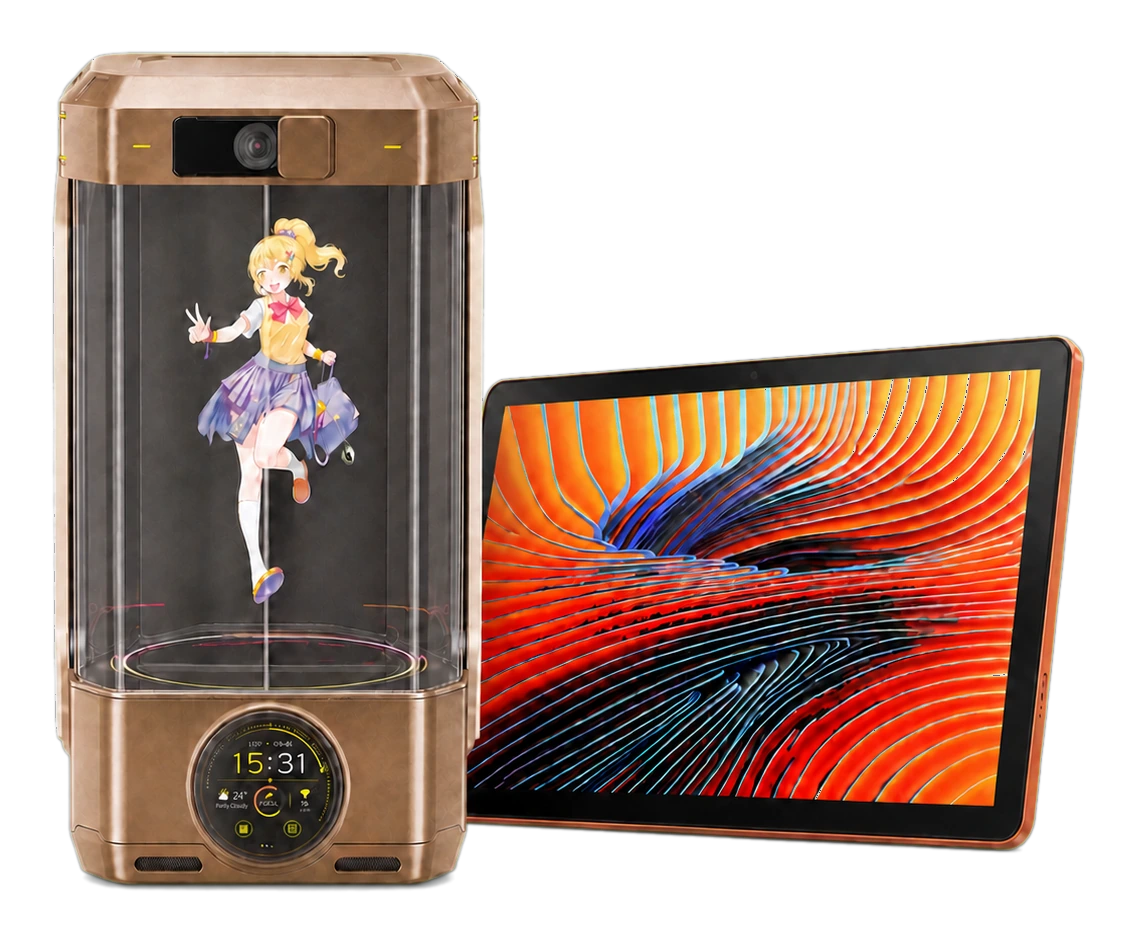
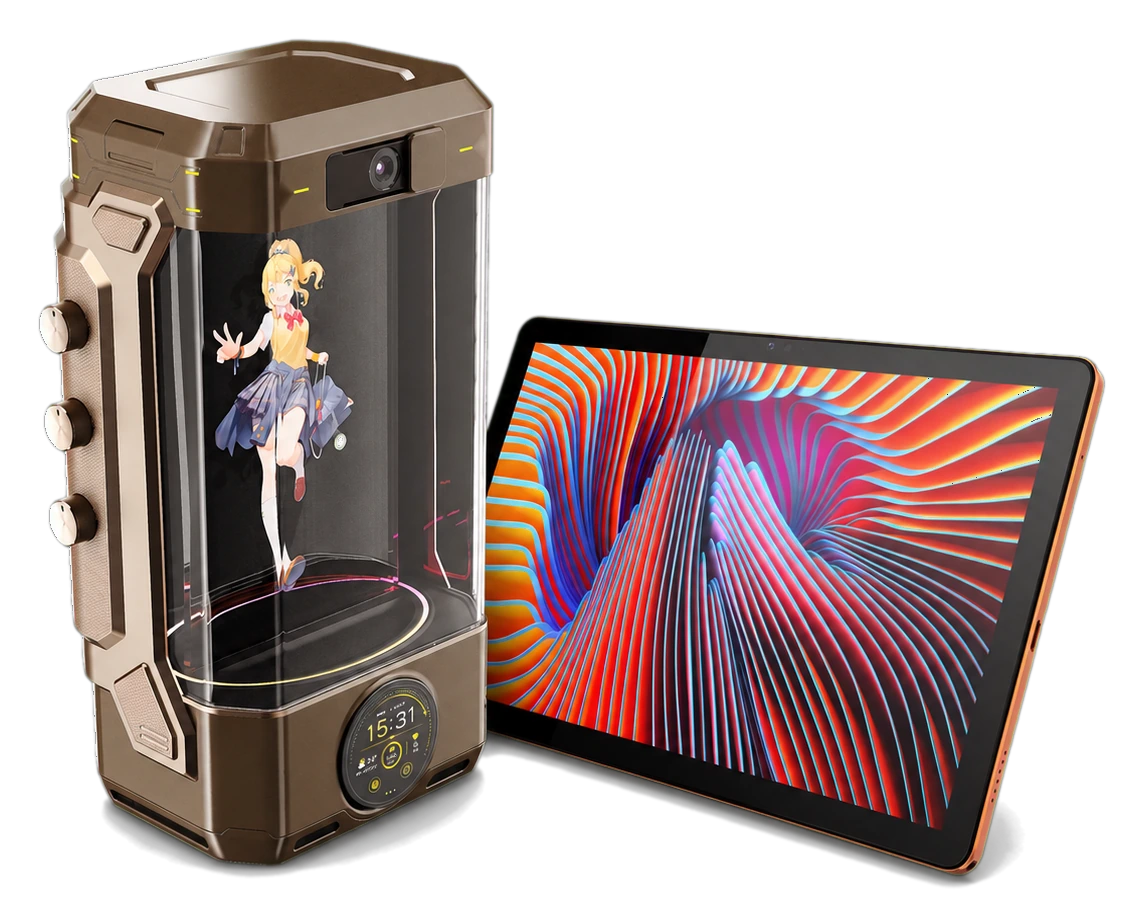
用原始素材重做产品总览主图

diff --git a/components/ProductsShowcase.tsx b/components/ProductsShowcase.tsx
@@ -155,8 +155,8 @@ export default function ProductsShowcase() {
           <Image
             src="/assets/products/lumiq-ola-tablet-hero.webp"
             alt={t("heroAlt")}
-            width={1136}
-            height={942}
+            width={1144}
+            height={922}
             sizes="(max-width: 820px) 100vw, 50vw"
             priority
           />
